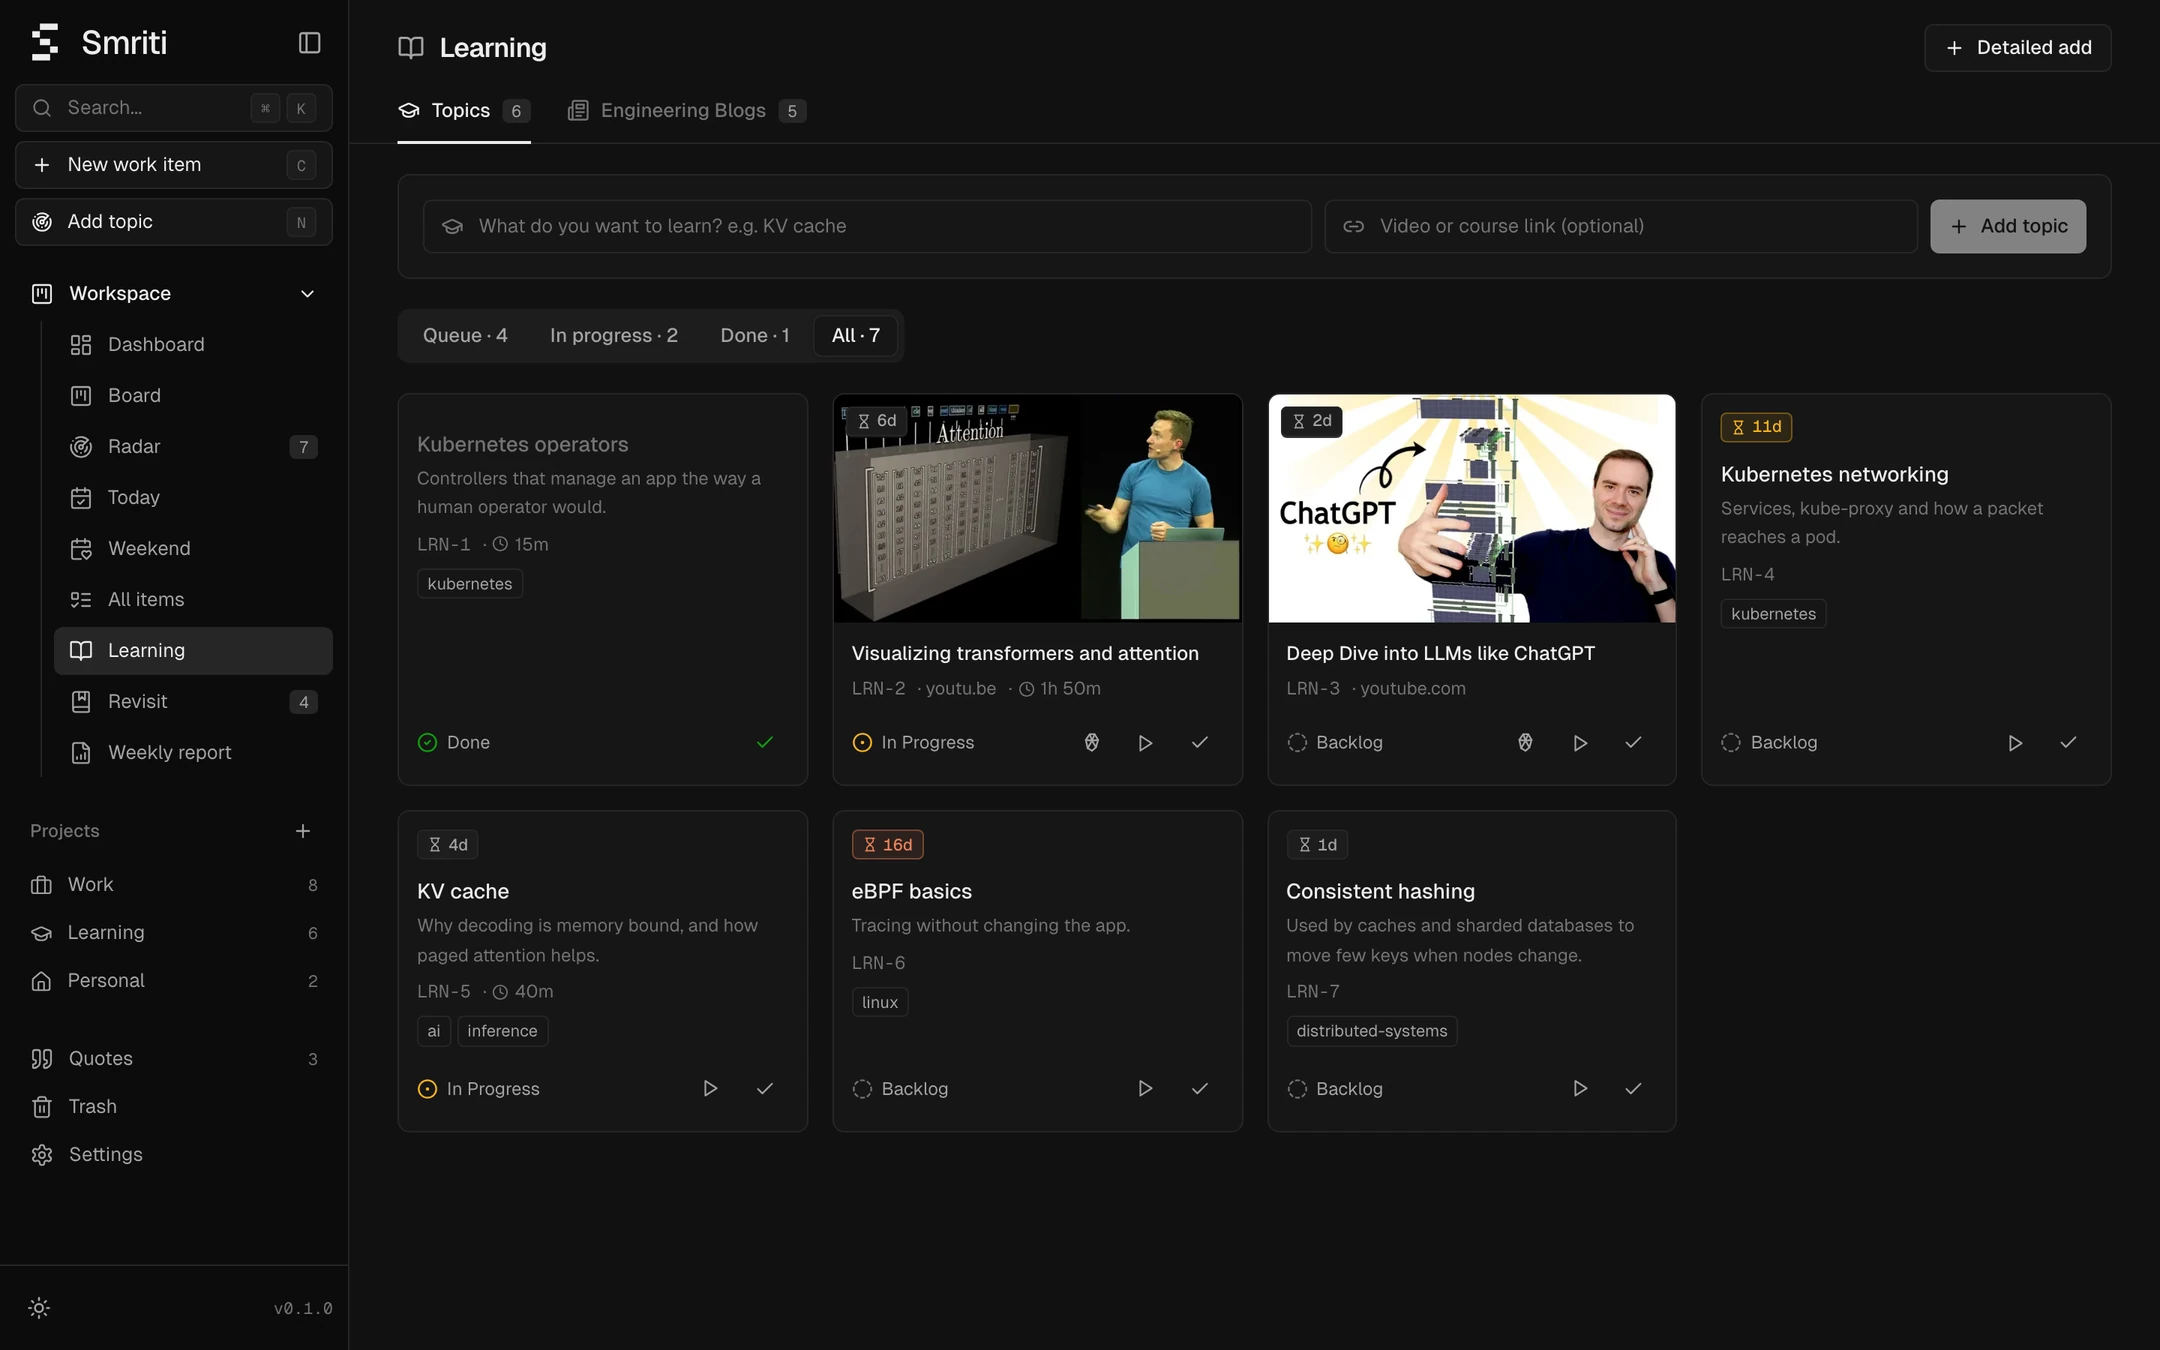
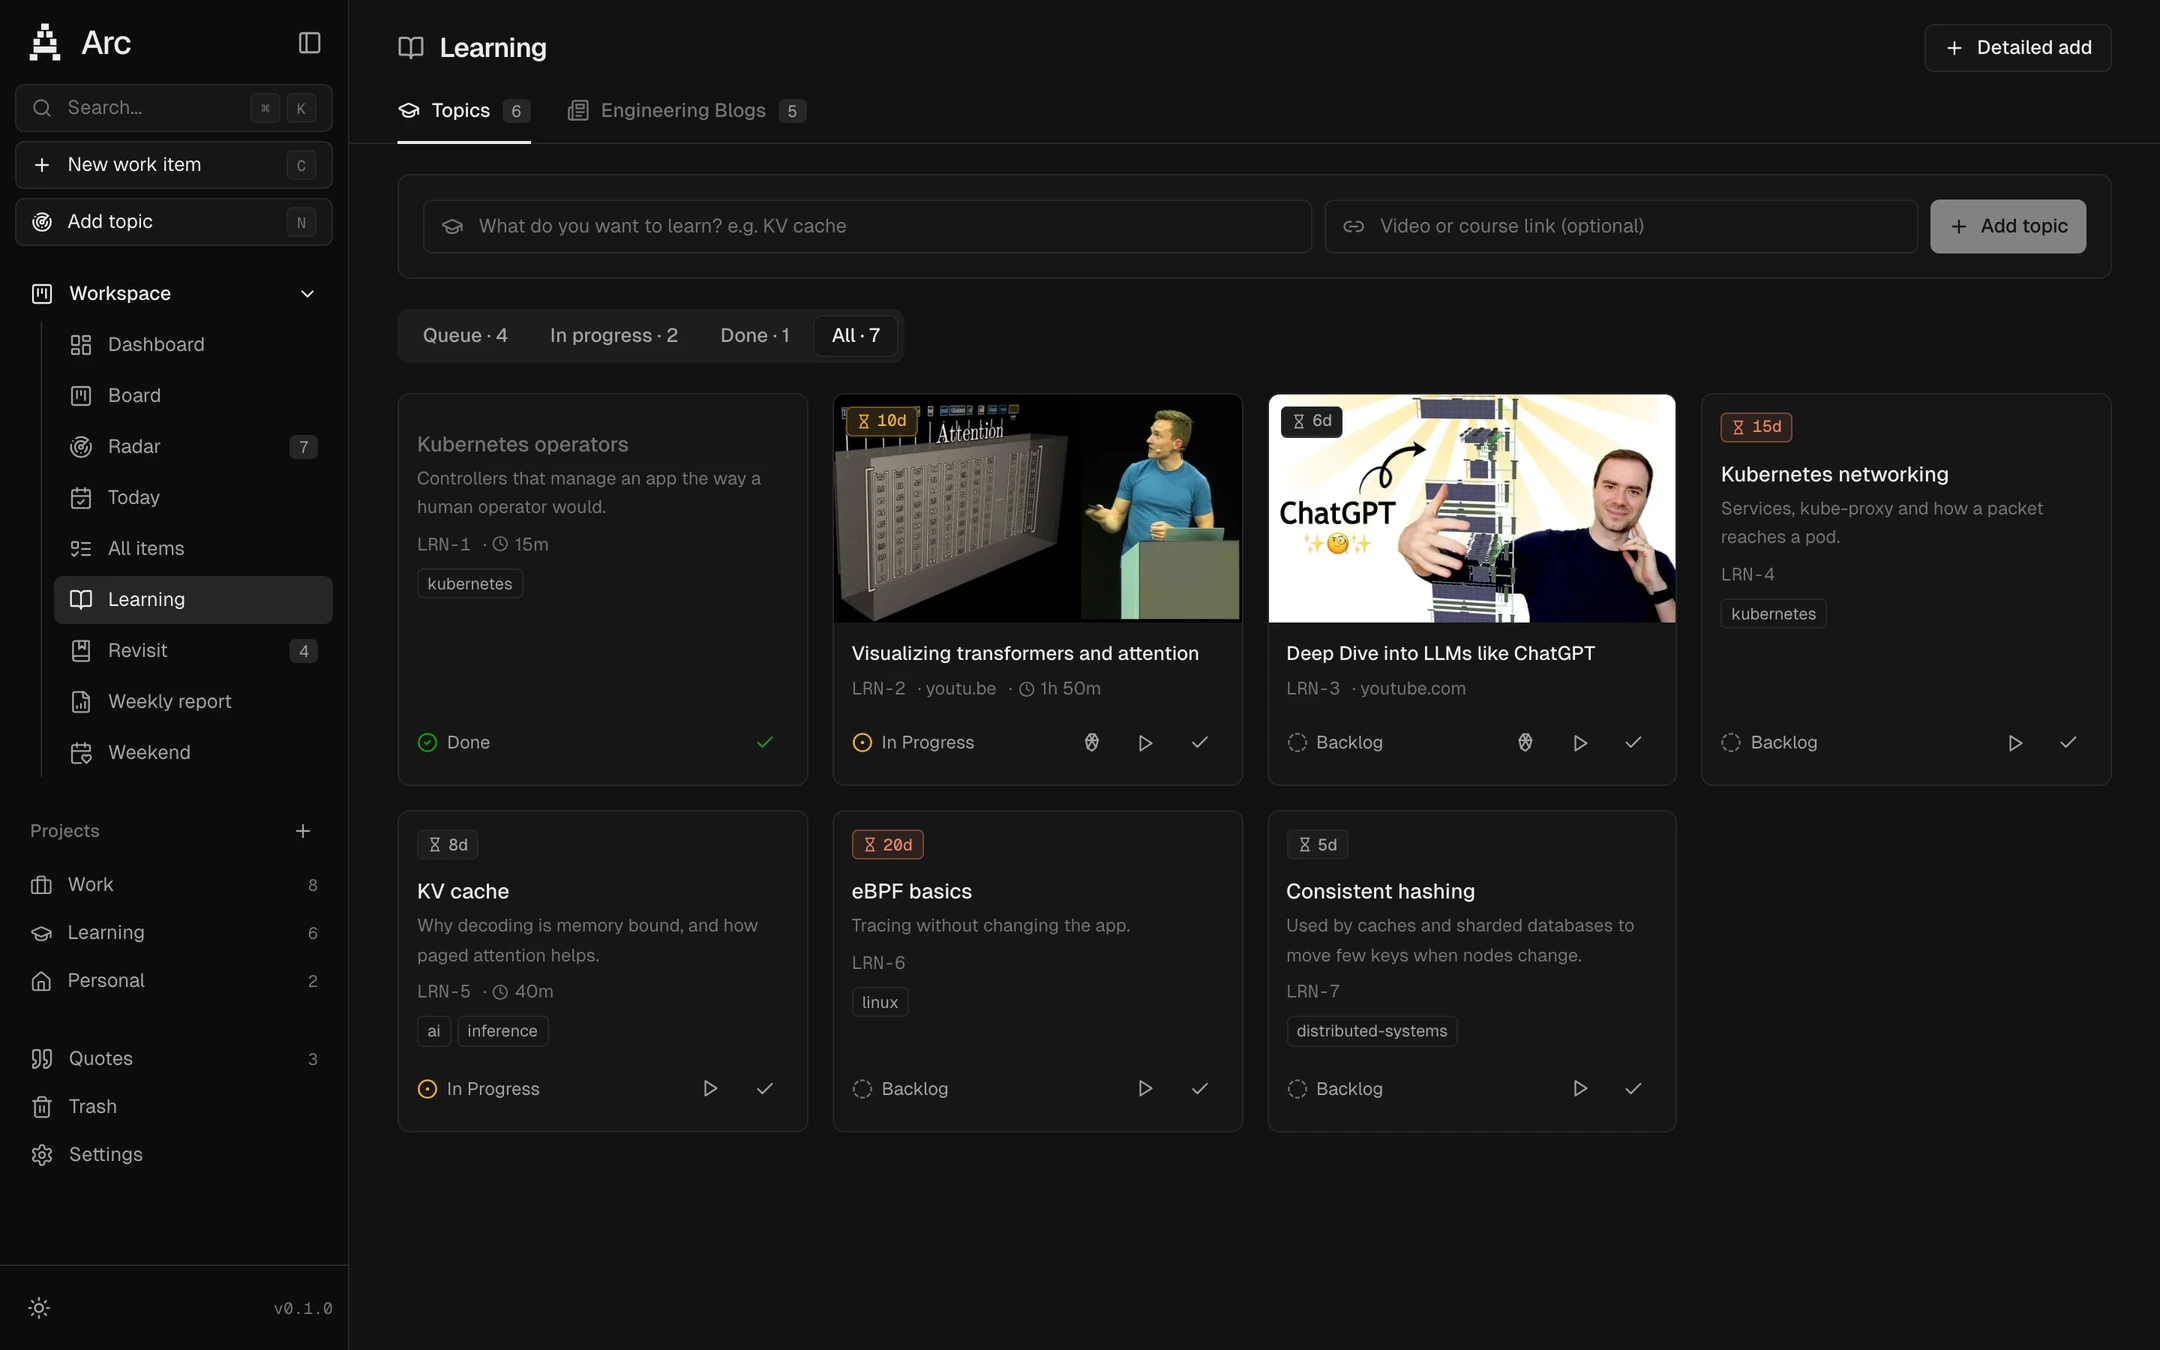
Rename Smriti to Arc
The app is now called Arc, with a stepped "A" mark in the same block
style as the old "S" (same build-in and hover shimmer, animated row by
row) and a matching favicon. All visible text, page titles, Makefile
output, defaults for new installs (Arc/Videos, Arc/Articles) and the
README with fresh screenshots use the new name.

Internal names stay as they were so data, notes and settings keep working
both ways: data/smriti.db, backup file names, smriti_id in Obsidian notes,
SMRITI_* variables, the Docker container and browser storage keys.

To go back: revert this commit and run make restart. Tag smriti-final
marks the last commit before the rename.

Changed region(s): [[0.0, 0.4044, 0.1551, 0.5289], [0.0, 0.0, 0.062, 0.0622], [0.4032, 0.28, 0.4343, 0.3422]]

diff --git a/frontend/src/components/Reading.tsx b/frontend/src/components/Reading.tsx
@@ -168,19 +168,19 @@ export function useArticleMutations() {
   };
 }
 
-/** "Smriti/Videos" -> "Smriti/Articles", keeping the user's casing style. */
+/** "Arc/Videos" -> "Arc/Articles", keeping the user's casing style. */
 function suggestFolder(videos: string | undefined) {
-  if (!videos) return "Smriti/Articles";
+  if (!videos) return "Arc/Articles";
   const parts = videos.split("/");
   const last = parts.pop() ?? "";
   const name = last === last.toLowerCase() ? "articles" : "Articles";
-  return [...parts, name].join("/") || "Smriti/Articles";
+  return [...parts, name].join("/") || "Arc/Articles";
 }
 
 /** Small preview image, or a neutral tile when there is none or it fails to load. */
 export function ArticleThumb({ src, articleId, className }: { src: string | null; articleId?: number; className?: string }) {
   const [failed, setFailed] = useState(false);
-  // Saved articles use Smriti's small cached copy; the add dialog shows the page's image directly.
+  // Saved articles use Arc's small cached copy; the add dialog shows the page's image directly.
   const url = src && articleId ? `/api/articles/${articleId}/thumb?v=${urlHash(src)}` : src;
   if (url && !failed)
     return (
@@ -249,7 +249,7 @@ export function ObsidianFolderModal({ open, onClose, onSaved }: { open: boolean;
       >
         <p className="text-[13px] text-fg-2">Each saved blog post becomes one note, named after its title. Choose a folder inside your vault.</p>
         <Field label="Folder inside the vault" hint={ob ? `Videos go to ${ob.folder}` : undefined}>
-          <Input autoFocus icon={<FolderOpen size={14} />} value={folder} onChange={(e) => setFolder(e.target.value)} placeholder="Smriti/Articles" />
+          <Input autoFocus icon={<FolderOpen size={14} />} value={folder} onChange={(e) => setFolder(e.target.value)} placeholder="Arc/Articles" />
         </Field>
         <div className="rounded-md border border-line bg-surface-2/60 px-3 py-2.5">
           <p className="text-xs text-fg-3">Notes are saved to</p>

diff --git a/frontend/src/components/Layout.tsx b/frontend/src/components/Layout.tsx
@@ -81,17 +81,22 @@ function useTheme() {
   return [theme, () => setTheme((t) => (t === "dark" ? "light" : "dark"))] as const;
 }
 
+// Stepped "A" for Arc. Blocks in the same row share a row number, so the build-in and the
+// hover shimmer move row by row, top to bottom. (The Smriti "S" is in git: tag smriti-final.)
 const LOGO_BLOCKS = [
-  { x: 10, y: 2, w: 14 },
-  { x: 4, y: 8, w: 6 },
-  { x: 10, y: 14, w: 8 },
-  { x: 18, y: 20, w: 6 },
-  { x: 4, y: 26, w: 14 },
+  { x: 11, y: 2, w: 6, row: 0 },
+  { x: 8, y: 8, w: 5, row: 1 },
+  { x: 15, y: 8, w: 5, row: 1 },
+  { x: 5, y: 14, w: 5, row: 2 },
+  { x: 18, y: 14, w: 5, row: 2 },
+  { x: 5, y: 20, w: 18, row: 3 },
+  { x: 2, y: 26, w: 6, row: 4 },
+  { x: 20, y: 26, w: 6, row: 4 },
 ];
 
 /**
- * Stepped "S" built from blocks, in the style of the Bifrost mark.
- * The blocks build in one by one on load; on hover an accent shimmer runs down them
+ * Stepped "A" built from blocks, in the style of the Bifrost mark.
+ * The blocks build in row by row on load; on hover an accent shimmer runs down them
  * (see .logo-mark in index.css). Each block is a <g> (build-in) around a <rect> (shimmer),
  * so the two animations never restart each other.
  */
@@ -100,12 +105,12 @@ function Logo({ compact }: { compact?: boolean }) {
     <div className="logo-mark flex items-center gap-2.5">
       <svg viewBox="0 0 28 33" className="size-7 shrink-0 overflow-visible" fill="var(--fg)" aria-hidden>
         {LOGO_BLOCKS.map((b, i) => (
-          <g key={i} className="logo-block" style={{ "--i": i } as CSSProperties}>
+          <g key={i} className="logo-block" style={{ "--i": b.row } as CSSProperties}>
             <rect x={b.x} y={b.y} width={b.w} height="5" />
           </g>
         ))}
       </svg>
-      {!compact && <span className="logo-word text-[22px] font-medium tracking-tight">Smriti</span>}
+      {!compact && <span className="logo-word text-[22px] font-medium tracking-tight">Arc</span>}
     </div>
   );
 }

diff --git a/frontend/src/pages/Settings.tsx b/frontend/src/pages/Settings.tsx
@@ -106,7 +106,7 @@ export default function Settings() {
           <div className="flex items-end gap-2">
             <div className="flex-1">
             <Field label="Videos and links folder">
-              <Input icon={<FolderOpen size={14} />} value={folder} onChange={(e) => setFolder(e.target.value)} placeholder="Smriti/Videos" />
+              <Input icon={<FolderOpen size={14} />} value={folder} onChange={(e) => setFolder(e.target.value)} placeholder="Arc/Videos" />
             </Field>
             </div>
             <Button variant="primary" className="h-9" disabled={!folder.trim() || folder === data?.obsidian.folder} onClick={() => save.mutate({ obsidian_folder: folder })}>
@@ -120,7 +120,7 @@ export default function Settings() {
                   icon={<FolderOpen size={14} />}
                   value={articlesFolder}
                   onChange={(e) => setArticlesFolder(e.target.value)}
-                  placeholder="Smriti/Articles"
+                  placeholder="Arc/Articles"
                 />
               </Field>
             </div>
@@ -142,7 +142,7 @@ export default function Settings() {
                 <Archive size={16} /> Backups
               </h3>
               <p className="text-[13px] text-fg-3">
-                Smriti copies the database once each month into <code className="font-mono">backups/YYYY-MM/</code> in the
+                Arc copies the database once each month into <code className="font-mono">backups/YYYY-MM/</code> in the
                 project folder.
               </p>
             </div>
@@ -202,7 +202,7 @@ export default function Settings() {
               </div>
             ))}
           </div>
-          {data && <p className="mt-4 text-xs text-fg-3">Smriti v{data.version} · time zone {data.timezone}</p>}
+          {data && <p className="mt-4 text-xs text-fg-3">Arc v{data.version} · time zone {data.timezone}</p>}
         </Card>
       </div>
     </div>

diff --git a/frontend/src/pages/Trash.tsx b/frontend/src/pages/Trash.tsx
@@ -60,7 +60,7 @@ export default function Trash() {
             onClick={() =>
               setConfirm({
                 title: "Empty the trash?",
-                body: "Smriti deletes every item and project in Trash for good. You cannot undo this.",
+                body: "Arc deletes every item and project in Trash for good. You cannot undo this.",
                 run: () => act.mutate({ method: "del", path: "/trash", done: "Trash emptied" }),
               })
             }
@@ -72,7 +72,7 @@ export default function Trash() {
       <div className="space-y-4 px-4 md:px-6 lg:px-8">
         <p className="text-[13px] text-fg-3">
           Deleted items and projects stay here for {data?.trash_days ?? 30} days. Restore them any time before that. After{" "}
-          {data?.trash_days ?? 30} days, Smriti deletes them for good.
+          {data?.trash_days ?? 30} days, Arc deletes them for good.
         </p>
         <Tabs
           value={tab}

diff --git a/frontend/src/pages/Reading.tsx b/frontend/src/pages/Reading.tsx
@@ -551,7 +551,7 @@ export default function Reading() {
                     }
                     hint={
                       !articles.length
-                        ? "Save good engineering blog posts and articles. Paste a link and Smriti fills in the title, site and summary, then keeps a note in Obsidian."
+                        ? "Save good engineering blog posts and articles. Paste a link and Arc fills in the title, site and summary, then keeps a note in Obsidian."
                         : current && !scoped.length
                           ? "Add a blog post here, or drag one from All blogs onto this collection."
                           : "Try another tab, tag or search."

diff --git a/frontend/src/components/ProjectModal.tsx b/frontend/src/components/ProjectModal.tsx
@@ -147,7 +147,7 @@ export function DeleteProjectModal({
     >
       <p className="text-[13px] leading-relaxed text-fg-2">
         The project and its <span className="font-medium text-fg">{project?.item_count ?? 0} items</span> go to Trash. You
-        can restore them for 30 days. After that, Smriti deletes them for good. Notes in Obsidian stay in your vault.
+        can restore them for 30 days. After that, Arc deletes them for good. Notes in Obsidian stay in your vault.
       </p>
     </Modal>
   );

diff --git a/frontend/src/components/ItemDrawer.tsx b/frontend/src/components/ItemDrawer.tsx
@@ -759,7 +759,7 @@ export function ItemDrawer({ itemId, onClose }: { itemId: number | null; onClose
           >
             <p className="text-[13px] text-fg-2">
               The item goes to Trash with its checklist, comments and work log. You can restore it for 30 days.
-              After that, Smriti deletes it for good.
+              After that, Arc deletes it for good.
               {item.obsidian_path && " The note in Obsidian stays in your vault."}
             </p>
           </Modal>

diff --git a/frontend/index.html b/frontend/index.html
@@ -4,8 +4,8 @@
     <meta charset="UTF-8" />
     <meta name="viewport" content="width=device-width, initial-scale=1.0, viewport-fit=cover" />
     <meta name="theme-color" content="#0f0f0f" />
-    <link rel="icon" type="image/svg+xml" href="/smriti.svg" />
-    <title>Smriti</title>
+    <link rel="icon" type="image/svg+xml" href="/arc.svg" />
+    <title>Arc</title>
     <script>
       try {
         var t = localStorage.getItem("smriti-theme");

diff --git a/frontend/src/components/ItemCard.tsx b/frontend/src/components/ItemCard.tsx
@@ -86,7 +86,7 @@ export function urlHash(s: string) {
 }
 
 /**
- * Link thumbnail served by Smriti: fetched once, shrunk to a small WebP and cached on disk and in
+ * Link thumbnail served by Arc: fetched once, shrunk to a small WebP and cached on disk and in
  * the browser. Falls back to an icon when the link has no preview image.
  */
 export function Thumb({ itemId, url, className }: { itemId: number; url: string | null; className?: string }) {

diff --git a/frontend/src/index.css b/frontend/src/index.css
@@ -208,7 +208,7 @@
 }
 
 /* ---------------------------------------------------------------- logo
-   Build-in: the five blocks of the "S" slide in one after another (once, ~0.5 s).
+   Build-in: the rows of the stepped "A" slide in one after another (once, ~0.5 s).
    Hover: an accent shimmer runs down the blocks, top to bottom. */
 @keyframes logo-block-in {
   from { opacity: 0; transform: translateX(-5px); }

diff --git a/backend/tests/test_api.py b/backend/tests/test_api.py
@@ -41,11 +41,11 @@ def test_obsidian_export_and_overwrite_on_rename(client):
     item = _learning(client)
     r = client.post(f"/api/items/{item['id']}/export")
     assert r.status_code == 200
-    assert r.json()["obsidian_path"] == "Smriti/Videos/K8s Pods.md"
+    assert r.json()["obsidian_path"] == "Arc/Videos/K8s Pods.md"
 
     renamed = client.patch(f"/api/items/{item['id']}", json={"title": "K8s Pods v2"}).json()
-    assert renamed["obsidian_path"] == "Smriti/Videos/K8s Pods v2.md"
-    folder = client.vault / "Smriti" / "Videos"
+    assert renamed["obsidian_path"] == "Arc/Videos/K8s Pods v2.md"
+    folder = client.vault / "Arc" / "Videos"
     assert os.listdir(folder) == ["K8s Pods v2.md"]
     assert "smriti_id: LRN-1" in (folder / "K8s Pods v2.md").read_text()
 

diff --git a/backend/app/obsidian.py b/backend/app/obsidian.py
@@ -6,7 +6,7 @@ import re
 from .db import get_setting, now
 
 VAULT_DIR = os.environ.get("VAULT_DIR", "/vault")
-DEFAULT_FOLDER = os.environ.get("OBSIDIAN_FOLDER", "Smriti/Videos")
+DEFAULT_FOLDER = os.environ.get("OBSIDIAN_FOLDER", "Arc/Videos")
 
 _ILLEGAL = re.compile(r'[\\/:*?"<>|#^\[\]\x00-\x1f]')
 
